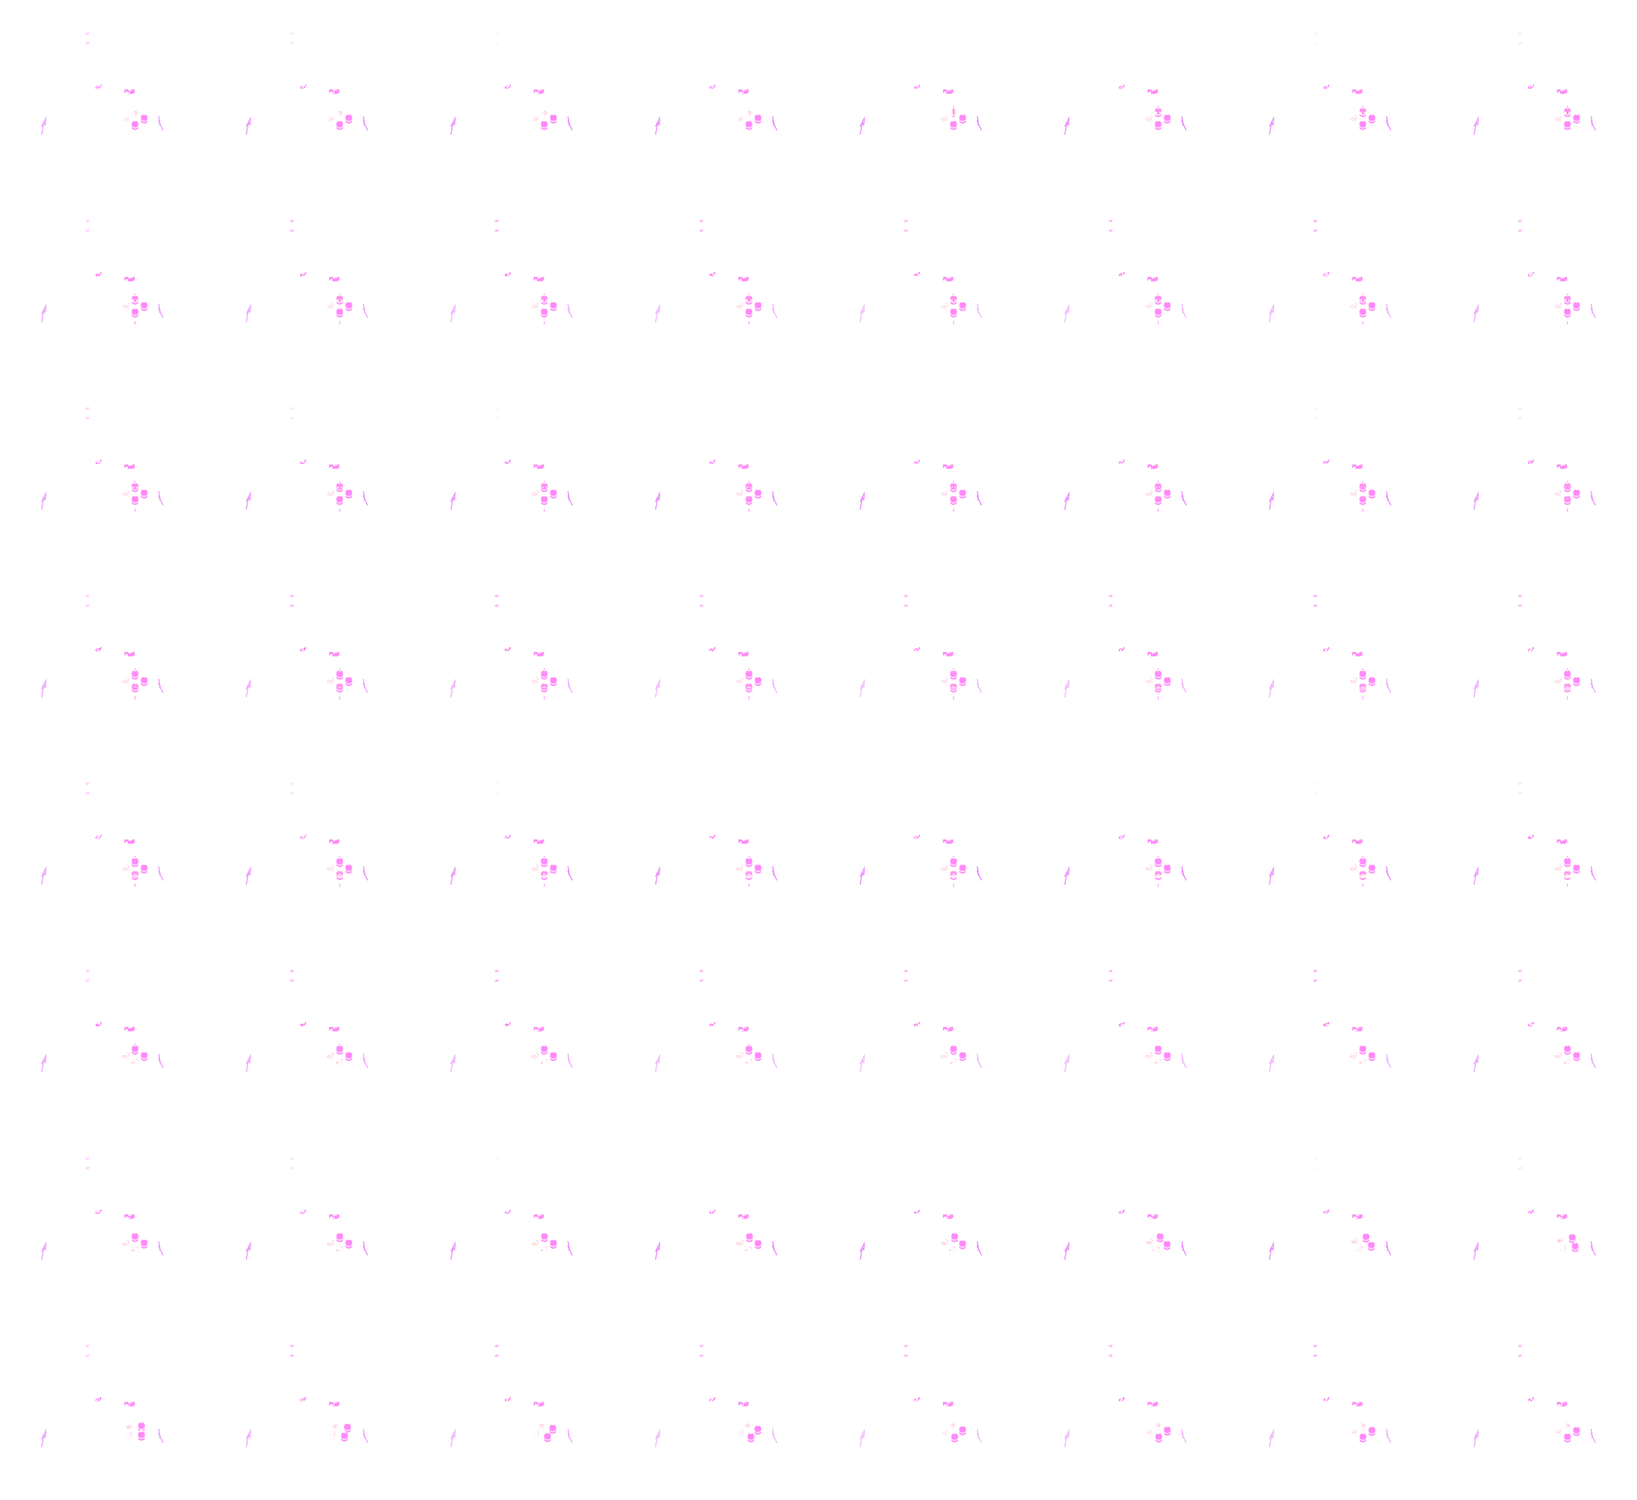
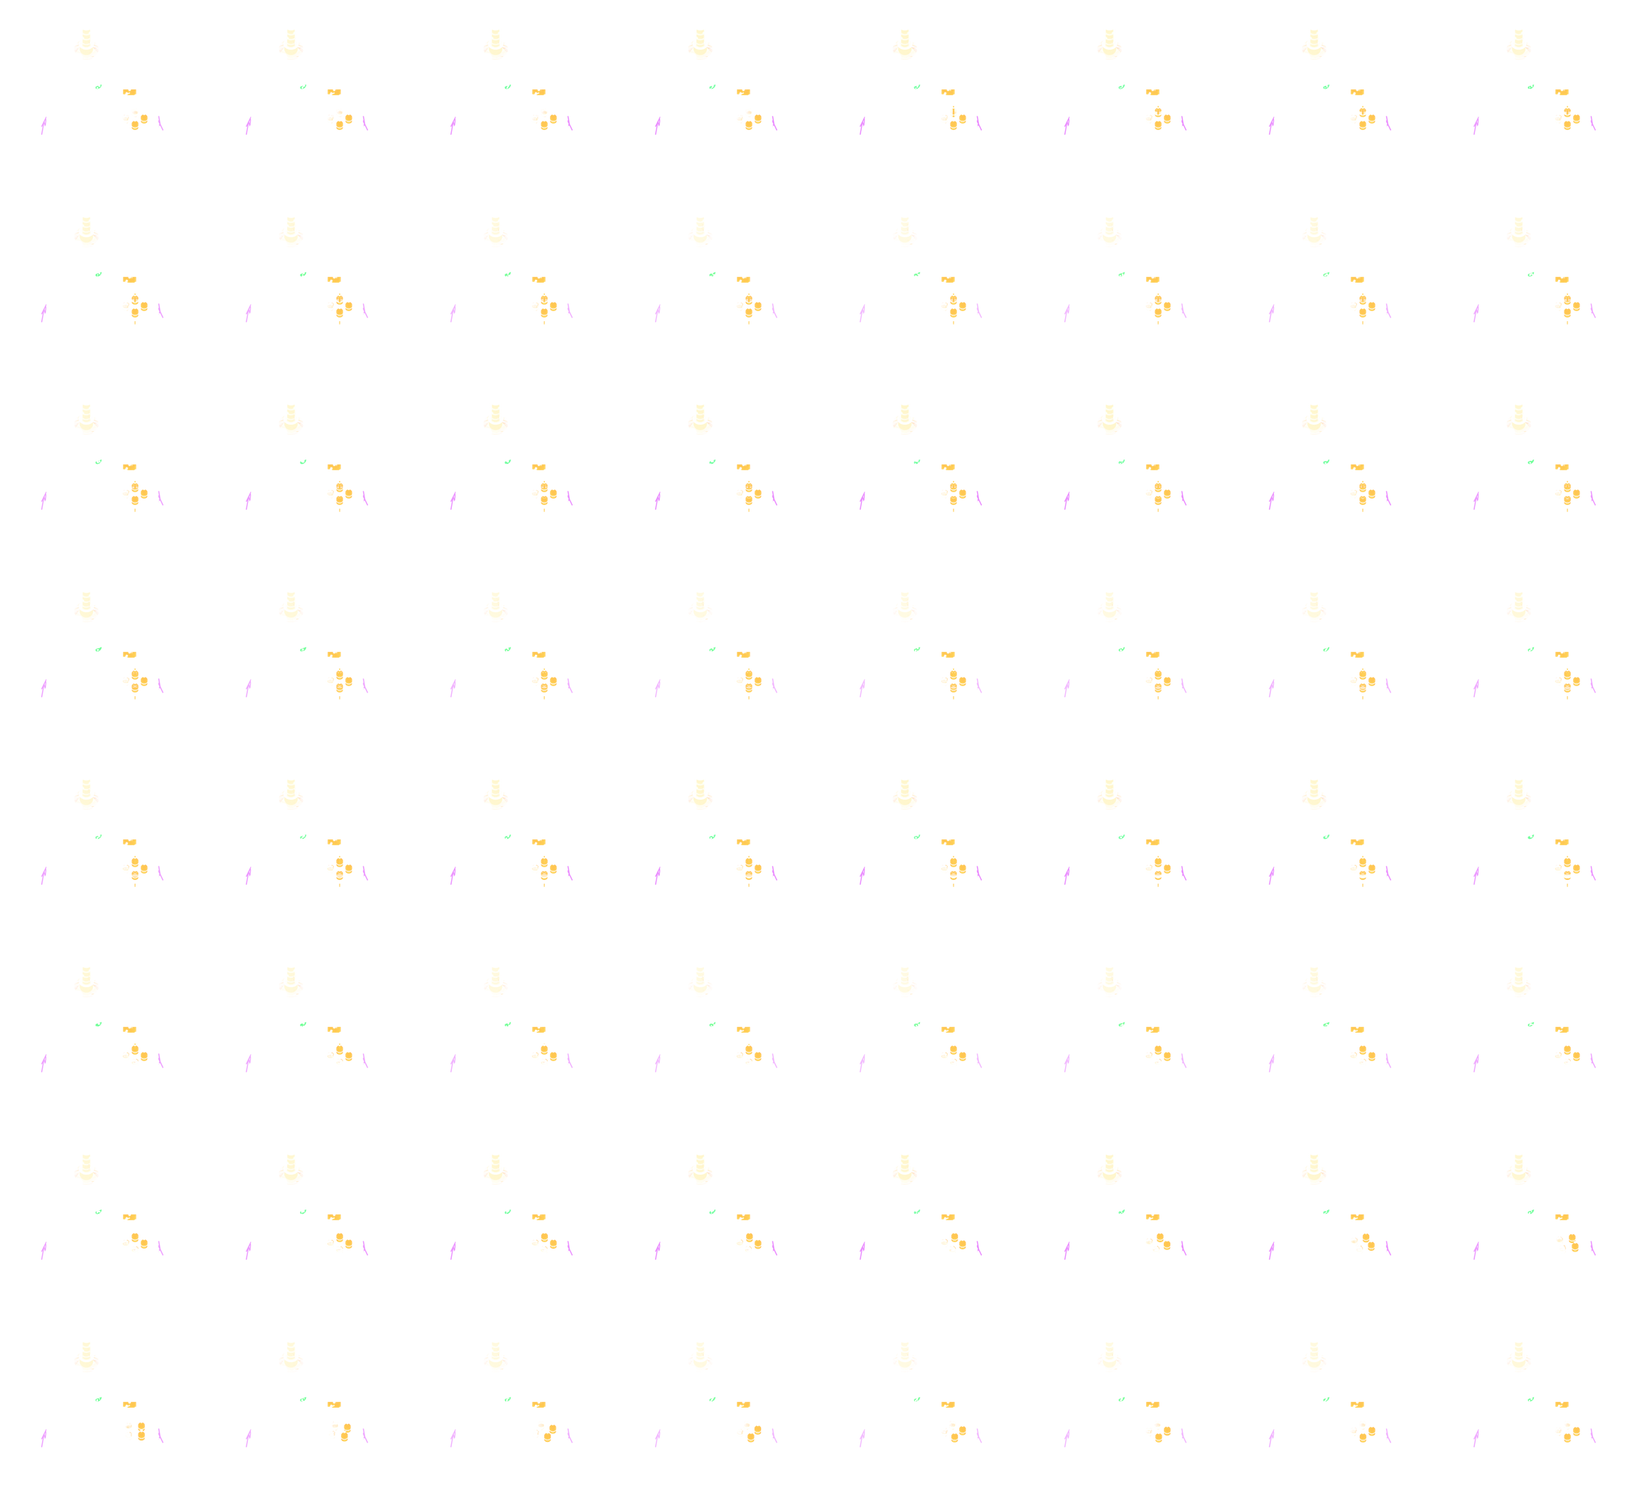
Give the distillery a glass and copper look
The alembic head, the column and the worm tub are glass now, showing the
vapour, the bubble-cap trays and the condenser coil inside; the spirit
safe is larger. Hammered copper and brass with verdigris and dark oak
replace the purple paint, gold is down to thin trims, and the brew glows
emerald and the spirit amber.

diff --git a/blender/distillery.py b/blender/distillery.py
@@ -41,10 +41,13 @@ OUT = fblend.OUT
 S2 = math.sqrt(2)
 
 # --- extra materials ----------------------------------------------------------
-POTION, POTION_EM = emitter("distillate", (0.95, 0.22, 0.78), 1.2)
-BREW, BREW_EM = emitter("brew", (0.85, 0.18, 0.7), 1.0, base=(0.35, 0.04, 0.3))
-BUBBLE, _ = emitter("bubble", (1.0, 0.6, 0.95), 2.5)
-VAPOUR, VAPOUR_EM = emitter("vapour", (1.0, 0.45, 0.9), 1.0, base=(0.3, 0.1, 0.3), glass=True)
+# THE ALCHEMIST'S GLASSWORKS: amber spirit, emerald brew, glass vessels,
+# verdigris copper/brass on dark oak; gold only as thin trims, purple only in
+# the heat runes (the tie-in with the rest of the mod)
+POTION, POTION_EM = emitter("distillate", (1.0, 0.5, 0.08), 1.2, base=(0.6, 0.25, 0.02))
+BREW, BREW_EM = emitter("brew", (0.12, 0.8, 0.25), 1.0, base=(0.03, 0.25, 0.06))
+BUBBLE, _ = emitter("bubble", (0.6, 1.0, 0.55), 2.5)
+VAPOUR, VAPOUR_EM = emitter("vapour", (0.95, 0.75, 0.3), 0.2, base=(0.04, 0.06, 0.03), glass=True)
 SOOT = metal("soot", (0.06, 0.045, 0.04), (0.01, 0.008, 0.006), rough=(0.5, 0.8), dirt=0.0)
 IVORY, _, _ = node_mat("ivory")
 IVORY.node_tree.nodes["Principled BSDF"].inputs["Base Color"].default_value = (0.8, 0.72, 0.55, 1)
@@ -98,6 +101,137 @@ def hot_copper():
 
 
 HOT, HOT_MIX = hot_copper()
+
+
+def patina(m, amount=0.55, scale=6.0):
+    """Verdigris on an fblend metal: blue-green crust in crevices and blotches,
+    mixed in front of the base colour."""
+    nt = m.node_tree
+    bsdf = nt.nodes["Principled BSDF"]
+    src = bsdf.inputs["Base Color"].links[0].from_socket
+    L = nt.links.new
+    geo = nt.nodes.new("ShaderNodeNewGeometry")
+    nz = nt.nodes.new("ShaderNodeTexNoise")
+    nz.inputs["Scale"].default_value = scale
+    nz.inputs["Detail"].default_value = 8.0
+    L(geo.outputs["Position"], nz.inputs["Vector"])
+    ao = nt.nodes.new("ShaderNodeAmbientOcclusion")
+    ao.inputs["Distance"].default_value = 0.06
+    cav = nt.nodes.new("ShaderNodeMath")
+    cav.operation = "SUBTRACT"
+    cav.inputs[0].default_value = 1.0
+    L(ao.outputs["AO"], cav.inputs[1])
+    blot = nt.nodes.new("ShaderNodeMapRange")
+    blot.inputs["From Min"].default_value = 0.52
+    blot.inputs["From Max"].default_value = 0.66
+    L(nz.outputs["Fac"], blot.inputs["Value"])
+    mx = nt.nodes.new("ShaderNodeMath")
+    mx.operation = "MAXIMUM"
+    L(blot.outputs["Result"], mx.inputs[0])
+    cm = nt.nodes.new("ShaderNodeMath")
+    cm.operation = "MULTIPLY"
+    cm.inputs[1].default_value = 2.5
+    L(cav.outputs[0], cm.inputs[0])
+    L(cm.outputs[0], mx.inputs[1])
+    amt = nt.nodes.new("ShaderNodeMath")
+    amt.operation = "MULTIPLY"
+    amt.use_clamp = True
+    amt.inputs[1].default_value = amount
+    L(mx.outputs[0], amt.inputs[0])
+    mix = nt.nodes.new("ShaderNodeMix")
+    mix.data_type = "RGBA"
+    mix.inputs["B"].default_value = (0.16, 0.36, 0.28, 1)
+    L(amt.outputs[0], mix.inputs["Factor"])
+    L(src, mix.inputs["A"])
+    L(mix.outputs["Result"], bsdf.inputs["Base Color"])
+    # the crust is matte
+    rr = nt.nodes.new("ShaderNodeMapRange")
+    rr.inputs["To Min"].default_value = 0.3
+    rr.inputs["To Max"].default_value = 0.85
+    L(amt.outputs[0], rr.inputs["Value"])
+    L(rr.outputs["Result"], bsdf.inputs["Roughness"])
+    return m
+
+
+def oak():
+    """Dark oak boards: horizontal grain (wave texture distorted by noise),
+    board seams, grime."""
+    m, nt, bsdf = node_mat("oak")
+    L = nt.links.new
+    tc = nt.nodes.new("ShaderNodeTexCoord")
+    wv = nt.nodes.new("ShaderNodeTexWave")
+    wv.wave_type = "BANDS"
+    wv.bands_direction = "Z"
+    wv.inputs["Scale"].default_value = 9.0
+    wv.inputs["Distortion"].default_value = 6.0
+    wv.inputs["Detail"].default_value = 4.0
+    L(tc.outputs["Object"], wv.inputs["Vector"])
+    ramp = nt.nodes.new("ShaderNodeValToRGB")
+    ramp.color_ramp.elements[0].color = (0.035, 0.018, 0.008, 1)
+    ramp.color_ramp.elements[1].color = (0.13, 0.07, 0.032, 1)
+    L(wv.outputs["Fac"], ramp.inputs["Fac"])
+    # board seams every 0.12 tiles
+    seam = nt.nodes.new("ShaderNodeTexWave")
+    seam.wave_type = "BANDS"
+    seam.bands_direction = "Z"
+    seam.wave_profile = "SAW"
+    seam.inputs["Scale"].default_value = 4.0
+    L(tc.outputs["Object"], seam.inputs["Vector"])
+    sr = nt.nodes.new("ShaderNodeMapRange")
+    sr.inputs["From Min"].default_value = 0.0
+    sr.inputs["From Max"].default_value = 0.06
+    sr.inputs["To Min"].default_value = 0.35
+    sr.inputs["To Max"].default_value = 1.0
+    L(seam.outputs["Fac"], sr.inputs["Value"])
+    mul = nt.nodes.new("ShaderNodeMix")
+    mul.data_type = "RGBA"
+    mul.blend_type = "MULTIPLY"
+    mul.inputs["Factor"].default_value = 1.0
+    L(ramp.outputs["Color"], mul.inputs["A"])
+    L(sr.outputs["Result"], mul.inputs["B"])
+    ao = nt.nodes.new("ShaderNodeAmbientOcclusion")
+    ao.inputs["Distance"].default_value = 0.15
+    L(mul.outputs["Result"], ao.inputs["Color"])
+    L(ao.outputs["Color"], bsdf.inputs["Base Color"])
+    bsdf.inputs["Roughness"].default_value = 0.6
+    b = nt.nodes.new("ShaderNodeBump")
+    b.inputs["Strength"].default_value = 0.5
+    b.inputs["Distance"].default_value = 0.01
+    L(wv.outputs["Fac"], b.inputs["Height"])
+    bb = nt.nodes.new("ShaderNodeBump")
+    bb.inputs["Strength"].default_value = 0.8
+    bb.inputs["Distance"].default_value = 0.02
+    L(sr.outputs["Result"], bb.inputs["Height"])
+    L(b.outputs["Normal"], bb.inputs["Normal"])
+    L(bb.outputs["Normal"], bsdf.inputs["Normal"])
+    return m
+
+
+def tinted_glass(name, color, rough=0.03):
+    m, nt, bsdf = node_mat(name)
+    bsdf.inputs["Base Color"].default_value = (*color, 1)
+    bsdf.inputs["Transmission Weight"].default_value = 1.0
+    bsdf.inputs["Roughness"].default_value = rough
+    bsdf.inputs["IOR"].default_value = 1.47
+    bsdf.inputs["Coat Weight"].default_value = 0.4
+    return m
+
+
+GOLD_TRIM = GOLD                  # real gold: thin trims only
+OAK = oak()
+COPPER_V = patina(metal("copper_v", (0.8, 0.38, 0.2), (0.16, 0.05, 0.025), rough=(0.22, 0.5),
+                        hammered=True, bump=0.4, bump_scale=30.0))
+BRASS_V = patina(metal("brass_v", (0.42, 0.3, 0.14), (0.08, 0.05, 0.02), rough=(0.3, 0.55)), 0.6)
+BRONZE_V = patina(metal("bronze_v", (0.3, 0.2, 0.1), (0.05, 0.03, 0.02), rough=(0.4, 0.7)), 0.35)
+AMBER = gem("amber", (0.9, 0.42, 0.05))
+GLASS_T = tinted_glass("vessel_glass", (0.82, 0.95, 0.88))
+COOLANT = tinted_glass("coolant", (0.45, 0.75, 0.72), rough=0.08)
+# rebind the shared palette so every helper (frames, filigree, studs) and every
+# castings call below picks up the glassworks materials
+GOLD, PURPLE, COPPER, BRASS, BRONZE, RUBY = BRASS_V, OAK, COPPER_V, BRASS_V, BRONZE_V, AMBER
+fblend.GOLD, fblend.PURPLE, fblend.COPPER, fblend.BRASS, fblend.BRONZE, fblend.RUBY = \
+    GOLD, PURPLE, COPPER, BRASS, BRONZE, RUBY
+FLASK_GLASS = GLASS_T
 
 
 def heat(obj):
@@ -212,7 +346,7 @@ def lyre(cu=0.5, cv=0.5, w=1.0, h=1.0):
     return S
 
 
-FIL_R = 0.04         # raised scrollwork thickness
+FIL_R = 0.03         # raised scrollwork thickness
 
 prism("plinth", bot2d, 0, PLINTH_H, BRONZE)
 rail("plinth_rail", [(x, y, PLINTH_H) for x, y in bot2d], 0.06, closed=True)
@@ -237,10 +371,10 @@ vi = [bm.verts.new(tuple(v)) for v in I3]
 for i in range(6):
     j = (i + 1) % 6
     bm.faces.new((vo[i], vo[j], vi[j], vi[i]))
-rim_o = mesh_obj("rim_band", bm, GOLD, root, bevel=0.01)
+rim_o = mesh_obj("rim_band", bm, COPPER, root, bevel=0.01)
 rim_o.modifiers.new("solid", "SOLIDIFY").thickness = 0.04
 rail("rim_outer", [t + Vector((0, 0, 0.015)) for t in T3], 0.07, closed=True)
-rail("rim_inner", [v + Vector((0, 0, 0.015)) for v in I3], 0.045, closed=True)
+rail("rim_inner", [v + Vector((0, 0, 0.015)) for v in I3], 0.022, closed=True, mat=GOLD_TRIM)
 for i in range(6):
     a = T3[i].lerp(I3[i], 0.5)
     b = T3[(i + 1) % 6].lerp(I3[(i + 1) % 6], 0.5)
@@ -523,8 +657,8 @@ POT_Z = FB_TOP
 pot_prof = [(0.44, POT_Z), (0.52, POT_Z + 0.08), (0.56, POT_Z + 0.2), (0.545, POT_Z + 0.32),
             (0.48, POT_Z + 0.44), (0.36, POT_Z + 0.53), (0.22, POT_Z + 0.59), (0.17, POT_Z + 0.64),
             (0.16, POT_Z + 0.7)]
-COPPER_POT = metal("pot_copper", (0.82, 0.4, 0.22), (0.16, 0.05, 0.025), rough=(0.18, 0.42),
-                   dirt=0.25, bump=0.5, bump_scale=30.0, hammered=True)
+COPPER_POT = patina(metal("pot_copper", (0.82, 0.4, 0.22), (0.16, 0.05, 0.025), rough=(0.18, 0.42),
+                          dirt=0.25, bump=0.5, bump_scale=30.0, hammered=True), 0.45)
 lathe("pot", pot_prof, COPPER_POT, app, loc=POT, segs=64)
 for z, r in ((POT_Z + 0.02, 0.47), (POT_Z + 0.26, 0.56)):
     ring(f"pot_band{z:.2f}", r + 0.025, r - 0.02, z - 0.03, z + 0.03, GOLD, app, loc=POT, segs=64)
@@ -552,7 +686,8 @@ porthole = bpy.data.objects.new("porthole", None)
 link(porthole, app)
 porthole.location = PH_C
 porthole.rotation_euler = Vector((0, 0, 1)).rotation_difference(PH_N).to_euler()
-ring("porthole_bezel", 0.115, 0.08, -0.01, 0.035, GOLD, porthole, segs=40, bevel=0.01)
+ring("porthole_bezel", 0.115, 0.08, -0.01, 0.035, BRASS, porthole, segs=40, bevel=0.01)
+ring("porthole_trim", 0.12, 0.108, 0.03, 0.04, GOLD_TRIM, porthole, segs=40)
 for k in range(8):
     a = TAU * k / 8
     sphere(f"porthole_bolt{k}", 0.014, (0.098 * math.cos(a), 0.098 * math.sin(a), 0.036), BRASS,
@@ -584,29 +719,40 @@ for b, k in BUBBLES:
 
 # helmet, gauge and rectifying column
 HEL_Z = POT_Z + 0.7
-lathe("helmet", [(0.16, HEL_Z), (0.22, HEL_Z + 0.04), (0.27, HEL_Z + 0.12), (0.265, HEL_Z + 0.2),
-                 (0.2, HEL_Z + 0.27), (0.14, HEL_Z + 0.3)], COPPER_POT, app, loc=POT, segs=48)
-ring("helmet_band", 0.285, 0.25, HEL_Z + 0.1, HEL_Z + 0.15, GOLD, app, loc=POT)
-ring("neck_collar", 0.2, 0.14, HEL_Z - 0.03, HEL_Z + 0.03, GOLD, app, loc=POT)
+# glass alembic head: the vapour gathering above the boil shows through it
+helmet = lathe("helmet", [(0.16, HEL_Z), (0.22, HEL_Z + 0.04), (0.27, HEL_Z + 0.12), (0.265, HEL_Z + 0.2),
+                          (0.2, HEL_Z + 0.27), (0.14, HEL_Z + 0.3)], GLASS_T, app, loc=POT, segs=48)
+glow(helmet)
+helm_vap = sphere("helmet_vapour", 0.12, (POT.x, POT.y, HEL_Z + 0.14), VAPOUR, app, segs=24)
+helm_vap.scale = (1, 1, 0.75)
+glow(helm_vap)
+ring("helmet_band", 0.275, 0.262, HEL_Z + 0.115, HEL_Z + 0.135, GOLD_TRIM, app, loc=POT)
+ring("neck_collar", 0.19, 0.14, HEL_Z - 0.025, HEL_Z + 0.025, COPPER, app, loc=POT)
+ring("neck_trim", 0.195, 0.18, HEL_Z + 0.02, HEL_Z + 0.032, GOLD_TRIM, app, loc=POT)
 COL_Z0, COL_Z1, COL_R = HEL_Z + 0.3, HEL_Z + 0.95, 0.13
-cyl("column", COL_R, COL_Z1 - COL_Z0, (POT.x, POT.y, (COL_Z0 + COL_Z1) / 2), BRASS, app, verts=40)
-for z in (COL_Z0 + 0.03, COL_Z0 + 0.33, COL_Z1 - 0.03):
-    ring(f"column_ring{z:.2f}", COL_R + 0.03, COL_R - 0.01, z - 0.03, z + 0.03, GOLD, app,
+# glass rectifying column: copper bubble-cap trays and the rising vapour
+# are visible inside
+col = cyl("column", COL_R, COL_Z1 - COL_Z0, (POT.x, POT.y, (COL_Z0 + COL_Z1) / 2), GLASS_T, app, verts=40)
+glow(col)
+col_vap = cyl("column_vapour", 0.045, COL_Z1 - COL_Z0 - 0.04, (POT.x, POT.y, (COL_Z0 + COL_Z1) / 2), VAPOUR,
+              app, verts=24)
+glow(col_vap)
+for k in range(4):
+    z = COL_Z0 + 0.1 + k * 0.15
+    cyl(f"column_tray{k}", COL_R - 0.02, 0.016, (POT.x, POT.y, z), COPPER, app, verts=32)
+    cyl(f"column_cap{k}", 0.035, 0.03, (POT.x + 0.05 * (-1) ** k, POT.y, z + 0.02), BRASS, app, verts=16)
+for k in range(4):     # brass tie rods holding the glass between the flanges
+    a = TAU * (k + 0.5) / 4
+    cyl(f"column_rod{k}", 0.009, COL_Z1 - COL_Z0, (POT.x + (COL_R + 0.02) * math.cos(a),
+                                                    POT.y + (COL_R + 0.02) * math.sin(a),
+                                                    (COL_Z0 + COL_Z1) / 2), BRASS, app, verts=8)
+for z in (COL_Z0 + 0.015, COL_Z1 - 0.015):
+    ring(f"column_flange{z:.2f}", COL_R + 0.035, COL_R - 0.01, z - 0.02, z + 0.02, COPPER, app,
          loc=POT, segs=40)
 VAP = []
-for k, z in enumerate((COL_Z0 + 0.18, COL_Z0 + 0.48)):
-    a = math.radians(-80)
-    c = POT + Vector((COL_R * math.cos(a), COL_R * math.sin(a), z))
-    holder = bpy.data.objects.new(f"col_glass{k}", None)
-    link(holder, app)
-    holder.location = c
-    holder.rotation_euler = Vector((0, 0, 1)).rotation_difference(
-        Vector((math.cos(a), math.sin(a), 0))).to_euler()
-    ring(f"col_glass_bezel{k}", 0.065, 0.045, -0.005, 0.025, GOLD, holder, segs=32)
-    v = cyl(f"col_glass_vapour{k}", 0.047, 0.012, (0, 0, 0.004), VAPOUR, holder, verts=24)
-    glow(v)
 lathe("column_dome", [(COL_R + 0.03, COL_Z1), (COL_R + 0.035, COL_Z1 + 0.03), (0.12, COL_Z1 + 0.1),
-                      (0.06, COL_Z1 + 0.15), (0.0, COL_Z1 + 0.16)], GOLD, app, loc=POT, segs=40)
+                      (0.06, COL_Z1 + 0.15), (0.0, COL_Z1 + 0.16)], COPPER, app, loc=POT, segs=40)
+ring("column_dome_trim", COL_R + 0.04, COL_R + 0.02, COL_Z1 + 0.025, COL_Z1 + 0.04, GOLD_TRIM, app, loc=POT)
 sphere("column_finial", 0.04, (POT.x, POT.y, COL_Z1 + 0.19), RUBY, app)
 # safety valve: weighted lever on the helmet, pops a little with every boil surge
 SV = POT + Vector((0.16, 0.12, HEL_Z + 0.28))
@@ -682,25 +828,25 @@ for k in range(4):
 sp_stand = Panel(tuple(TUB + Vector((-0.13, -0.3, Z_D + 0.06))), tuple(TUB + Vector((0.13, -0.3, Z_D + 0.06))),
                  tuple(TUB + Vector((0.13, -0.3, TUB_Z0 - 0.1))), tuple(TUB + Vector((-0.13, -0.3, TUB_Z0 - 0.1))))
 sp_stand.filigree("tub_stand_fil", lyre(0.5, 0.5, 1.0, 1.0), radius=0.022, lift=0.0, parent=app)
-# staved bronze tub with heavy gold hoops
-lathe("tub", [(TUB_R - 0.02, TUB_Z0), (TUB_R, TUB_Z0 + 0.02), (TUB_R + 0.02, (TUB_Z0 + TUB_Z1) / 2),
-              (TUB_R, TUB_Z1), (TUB_R - 0.04, TUB_Z1), (TUB_R - 0.04, TUB_Z1 - 0.1),
-              (0.0, TUB_Z1 - 0.1)], BRONZE, app, loc=TUB, segs=64)
-for k in range(24):
-    a = TAU * k / 24
-    box(f"tub_stave{k}", (0.012, 0.03, TUB_Z1 - TUB_Z0 - 0.04),
-        (TUB.x + (TUB_R + 0.013) * math.cos(a), TUB.y + (TUB_R + 0.013) * math.sin(a),
-         (TUB_Z0 + TUB_Z1) / 2), BRASS, app, rot=(0, 0, a), bevel=0.004)
-for k, z in enumerate((TUB_Z0 + 0.07, (TUB_Z0 + TUB_Z1) / 2, TUB_Z1 - 0.04)):
-    r = TUB_R + (0.02 if k == 1 else 0.005)
-    ring(f"tub_hoop{k}", r + 0.04, r - 0.01, z - 0.035, z + 0.035, GOLD, app, loc=TUB, segs=64)
-    for m in range(10):
-        a = TAU * (m + 0.5 * k) / 10
-        sphere(f"tub_hoop{k}_gem{m}", 0.022, (TUB.x + (r + 0.04) * math.cos(a),
-                                               TUB.y + (r + 0.04) * math.sin(a), z),
-               RUBY if m % 2 else GOLD, app)
+# glass worm tub: coil and coolant visible, copper base and rim, brass straps
 WATER_Z = TUB_Z1 - 0.07
-water = cyl("tub_water", TUB_R - 0.04, 0.01, (TUB.x, TUB.y, WATER_Z), WATER, app, verts=48)
+cyl("tub_base", TUB_R + 0.03, 0.06, (TUB.x, TUB.y, TUB_Z0 + 0.03), COPPER, app, verts=64)
+tub_glass = ring("tub_glass", TUB_R, TUB_R - 0.018, TUB_Z0 + 0.05, TUB_Z1 - 0.02, GLASS_T, app, loc=TUB,
+                 segs=64, bevel=0.0)
+cyl("tub_coolant", TUB_R - 0.02, WATER_Z - TUB_Z0 - 0.06, (TUB.x, TUB.y, (WATER_Z + TUB_Z0 + 0.06) / 2), COOLANT,
+    app, verts=64)
+for k, z in enumerate((TUB_Z0 + 0.06, TUB_Z1 - 0.02)):
+    ring(f"tub_hoop{k}", TUB_R + 0.035, TUB_R - 0.02, z - 0.03, z + 0.03, COPPER, app, loc=TUB, segs=64)
+ring("tub_trim", TUB_R + 0.04, TUB_R + 0.025, TUB_Z1 + 0.01, TUB_Z1 + 0.025, GOLD_TRIM, app, loc=TUB, segs=64)
+for k in range(6):
+    a = TAU * (k + 0.5) / 6
+    box(f"tub_strap{k}", (0.03, 0.022, TUB_Z1 - TUB_Z0), (TUB.x + (TUB_R + 0.012) * math.cos(a),
+                                                          TUB.y + (TUB_R + 0.012) * math.sin(a),
+                                                          (TUB_Z0 + TUB_Z1) / 2), BRASS, app,
+        rot=(0, 0, a), bevel=0.005)
+    for z in (TUB_Z0 + 0.06, TUB_Z1 - 0.02):
+        sphere(f"tub_rivet{k}{z:.2f}", 0.018, (TUB.x + (TUB_R + 0.04) * math.cos(a),
+                                               TUB.y + (TUB_R + 0.04) * math.sin(a), z), BRASS, app, segs=8)
 # coil: comes in over the rim, top turn arches out of the water, then spirals
 # down through the coolant and leaves the tub low at the front
 COIL_R = 0.29
@@ -729,15 +875,15 @@ for k, t in enumerate((0.12, 0.38, 0.62)):
 
 # spirit safe: locked gold-framed glass box where the distillate is checked
 SAFE = Vector((0.6, -0.1, 1.2))
-SAFE_SZ = Vector((0.26, 0.2, 0.18))
+SAFE_SZ = Vector((0.32, 0.24, 0.22))
 outlet = [(TUB.x - 0.2, TUB.y - TUB_R + 0.05, TUB_Z0 + 0.12), (TUB.x - 0.2, TUB.y - TUB_R - 0.06, TUB_Z0 + 0.11),
           (SAFE.x, SAFE.y + SAFE_SZ.y / 2 + 0.1, SAFE.z + 0.06), (SAFE.x, SAFE.y + SAFE_SZ.y / 2, SAFE.z + 0.04)]
 curve_obj("tub_outlet", outlet, COPPER, 0.032, app, res=3)
 cyl("safe_pedestal", 0.06, SAFE.z - SAFE_SZ.z / 2 - Z_D, (SAFE.x, SAFE.y, (SAFE.z - SAFE_SZ.z / 2 + Z_D) / 2),
     BRONZE, app, verts=24)
 cyl("safe_foot", 0.1, 0.05, (SAFE.x, SAFE.y, Z_D + 0.025), GOLD, app, verts=24)
-safe_liq = box("safe_liquid", (SAFE_SZ.x - 0.04, SAFE_SZ.y - 0.04, 0.05),
-               (SAFE.x, SAFE.y, SAFE.z - SAFE_SZ.z / 2 + 0.04), POTION, app, bevel=0.01)
+safe_liq = box("safe_liquid", (SAFE_SZ.x - 0.04, SAFE_SZ.y - 0.04, 0.09),
+               (SAFE.x, SAFE.y, SAFE.z - SAFE_SZ.z / 2 + 0.06), POTION, app, bevel=0.01)
 glow(safe_liq)
 safe_glass = box("safe_glass", tuple(SAFE_SZ - Vector((0.01, 0.01, 0.01))), tuple(SAFE), FLASK_GLASS, app,
                  bevel=0.004)
@@ -869,7 +1015,7 @@ for k in range(4):
                                   (0.025, BOT_H + 0.05), (0.025, BOT_H + 0.1), (0.0, BOT_H + 0.1)],
               FLASK_GLASS, fl, segs=24)
     n_ = g
-    cyl(f"flask{k}_lip", 0.033, 0.016, (0, 0, BOT_H + 0.095), GOLD, fl, verts=20)
+    cyl(f"flask{k}_lip", 0.033, 0.016, (0, 0, BOT_H + 0.095), GOLD_TRIM, fl, verts=20)
     ring(f"flask{k}_band", FL_R + 0.008, FL_R - 0.004, BOT_H * 0.55, BOT_H * 0.55 + 0.02, GOLD, fl, segs=24)
     glow(g)
     glow(n_)
@@ -1276,7 +1422,7 @@ def pose_magic(f):
     for b, _ in BUBBLES:
         b.hide_render = False
     BREW_EM.default_value = 0.8 + 0.6 * surge
-    VAPOUR_EM.default_value = 0.6 + 1.6 * surge
+    VAPOUR_EM.default_value = 0.06 + 0.18 * surge
     POTION_EM.default_value = 1.2
     RUNE_EM.default_value = 0.2 + 0.5 * surge
     # needle sits in the working band, kicked by each surge
@@ -1300,17 +1446,20 @@ def pose(f):
 FRAME_W, FRAME_H, FRAME_CY = 4.5, 4.125, 0.66
 SHADOW_W, SHADOW_SHIFT_X = 5.625, 0.5625    # shadow frame: wider, shifted east
 rig = setup_scene(frame_w=FRAME_W, frame_h=FRAME_H, frame_cy=FRAME_CY)
+# light passes through several glass walls (tub, coolant, column trays)
+bpy.context.scene.cycles.max_bounces = 12
+bpy.context.scene.cycles.transmission_bounces = 12
 scene = bpy.context.scene
 cam = scene.camera
 pt_d = bpy.data.lights.new("porthole_light", "POINT")
-pt_d.color = (1.0, 0.35, 0.85)
+pt_d.color = (0.35, 1.0, 0.45)
 pt_d.shadow_soft_size = 0.05
 pt_d.energy = 0.6
 o = bpy.data.objects.new("porthole_light", pt_d)
 link(o, app)
 o.location = PH_C + PH_N * 0.12
 fl_d = bpy.data.lights.new("flask_light", "POINT")
-fl_d.color = (1.0, 0.3, 0.85)
+fl_d.color = (1.0, 0.55, 0.15)
 fl_d.shadow_soft_size = 0.05
 fl_d.energy = 0.8
 o = bpy.data.objects.new("flask_light", fl_d)
